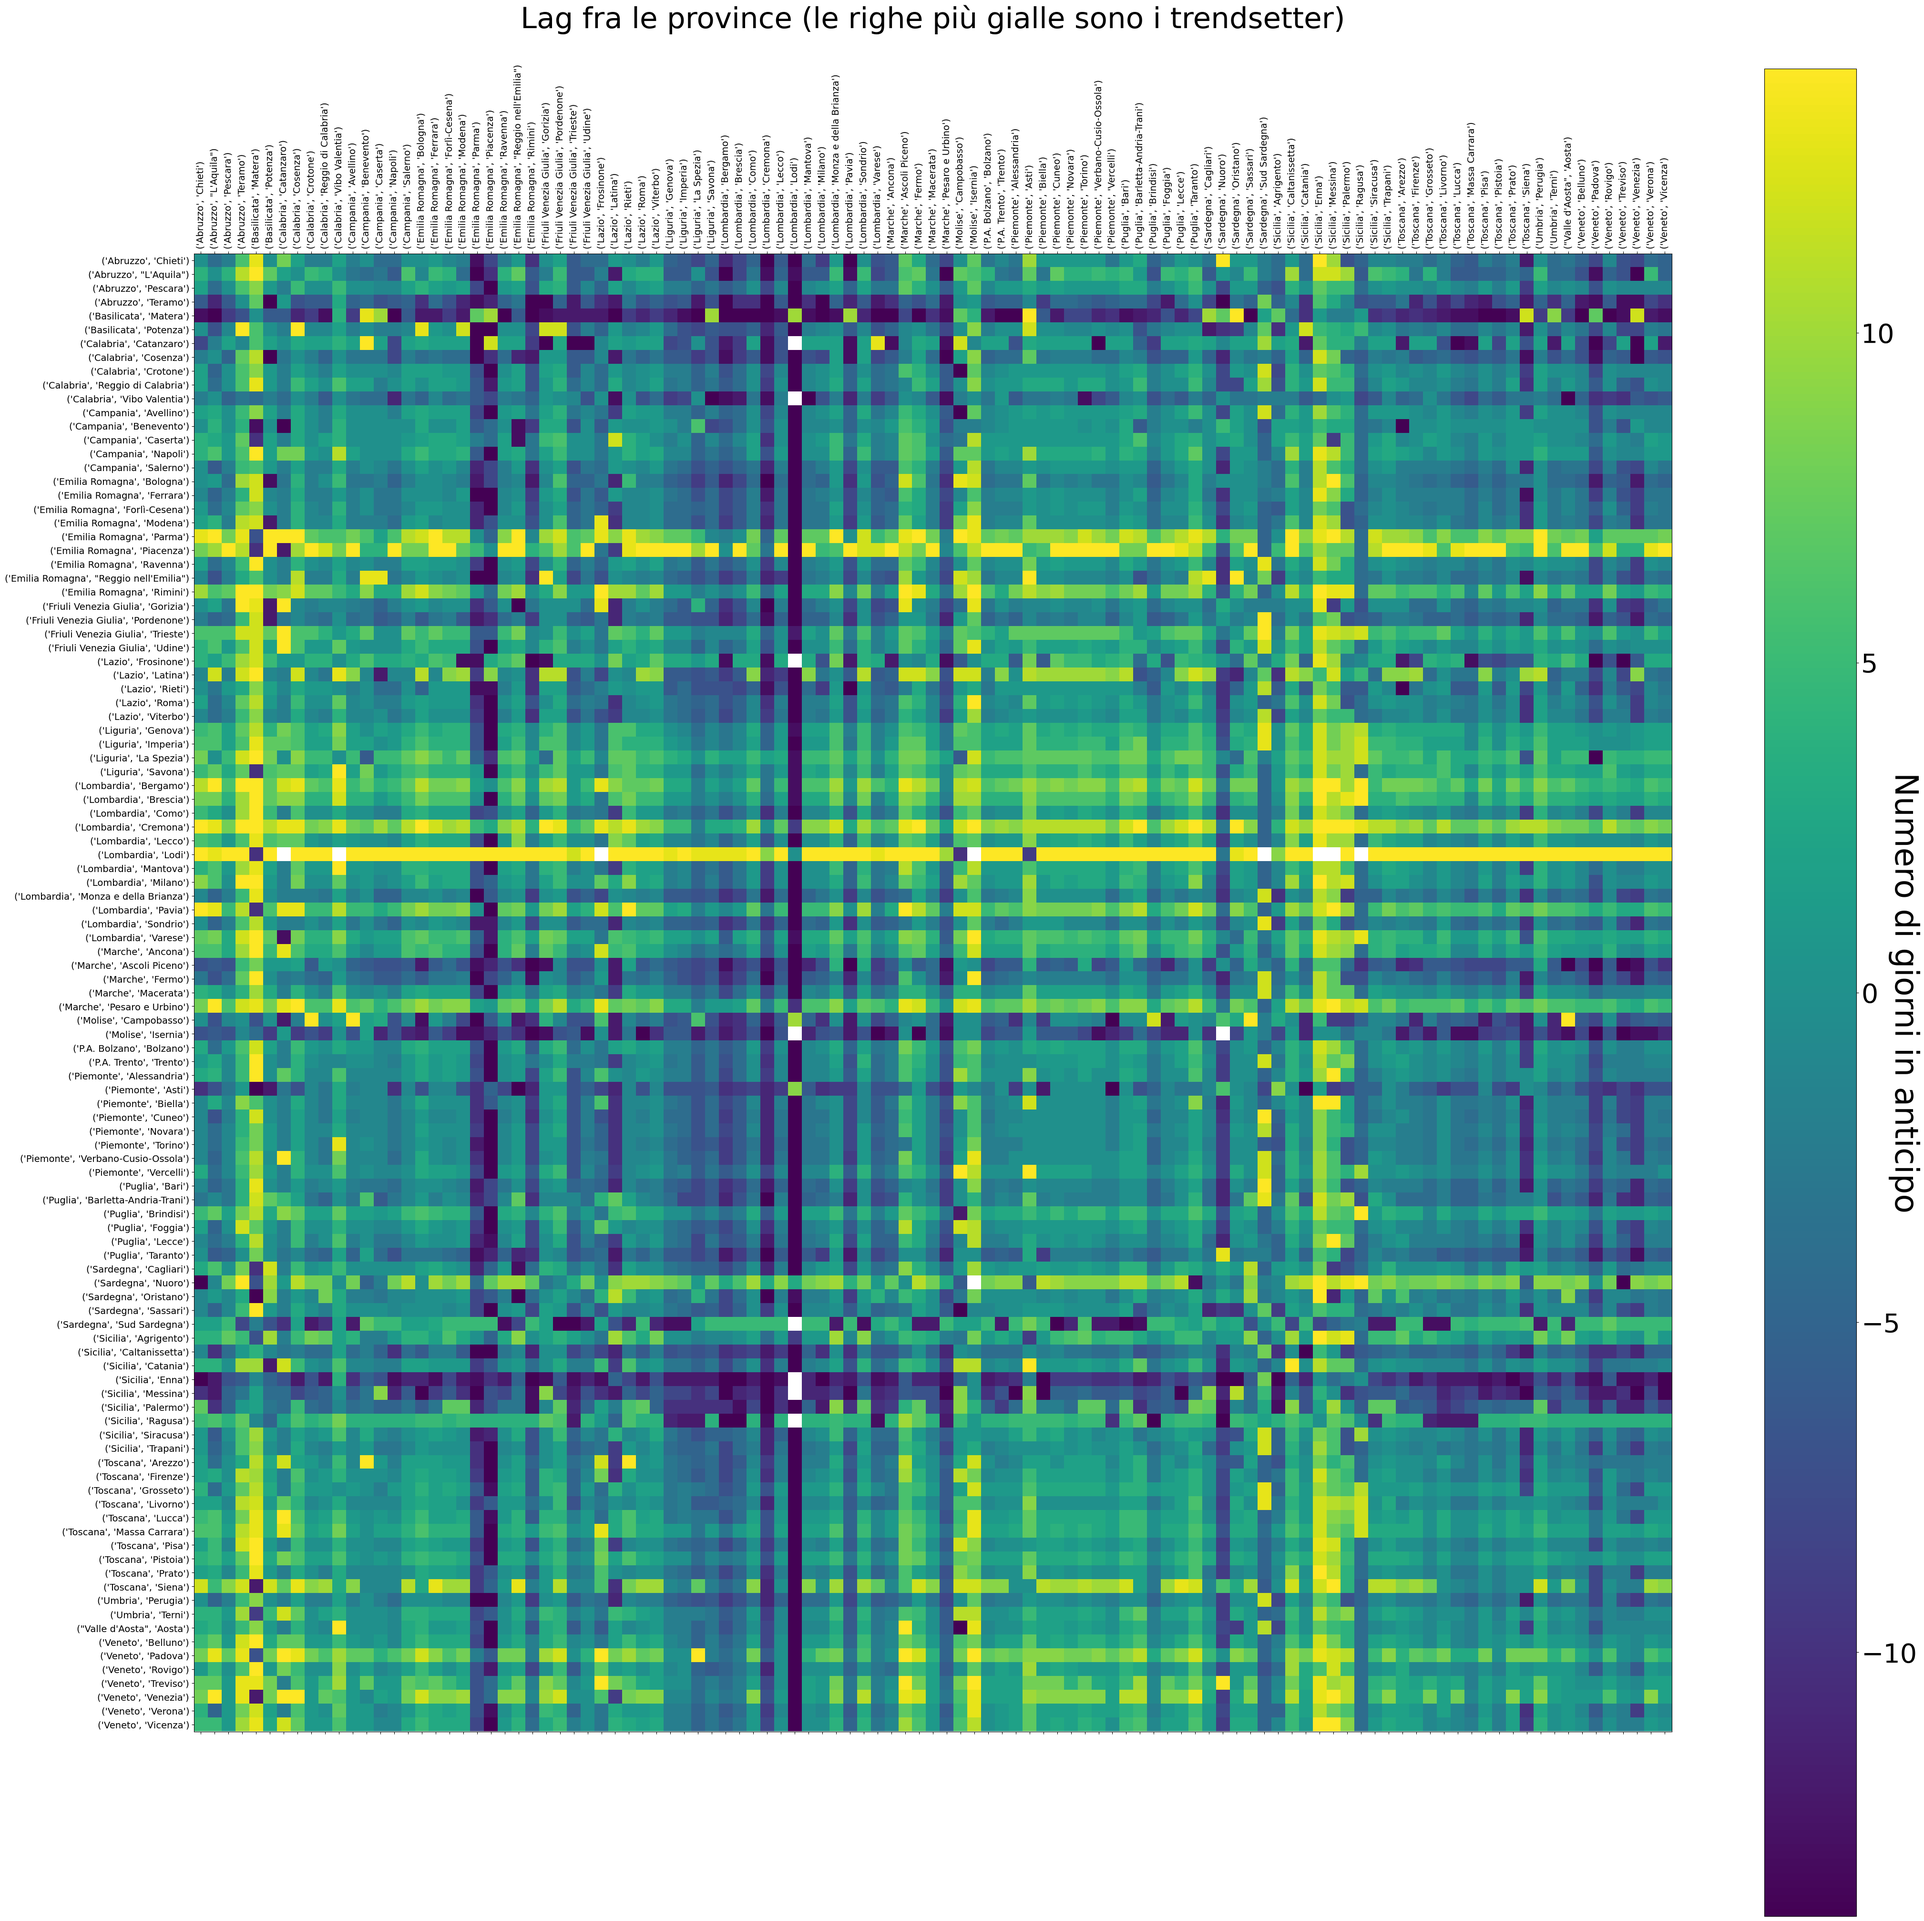
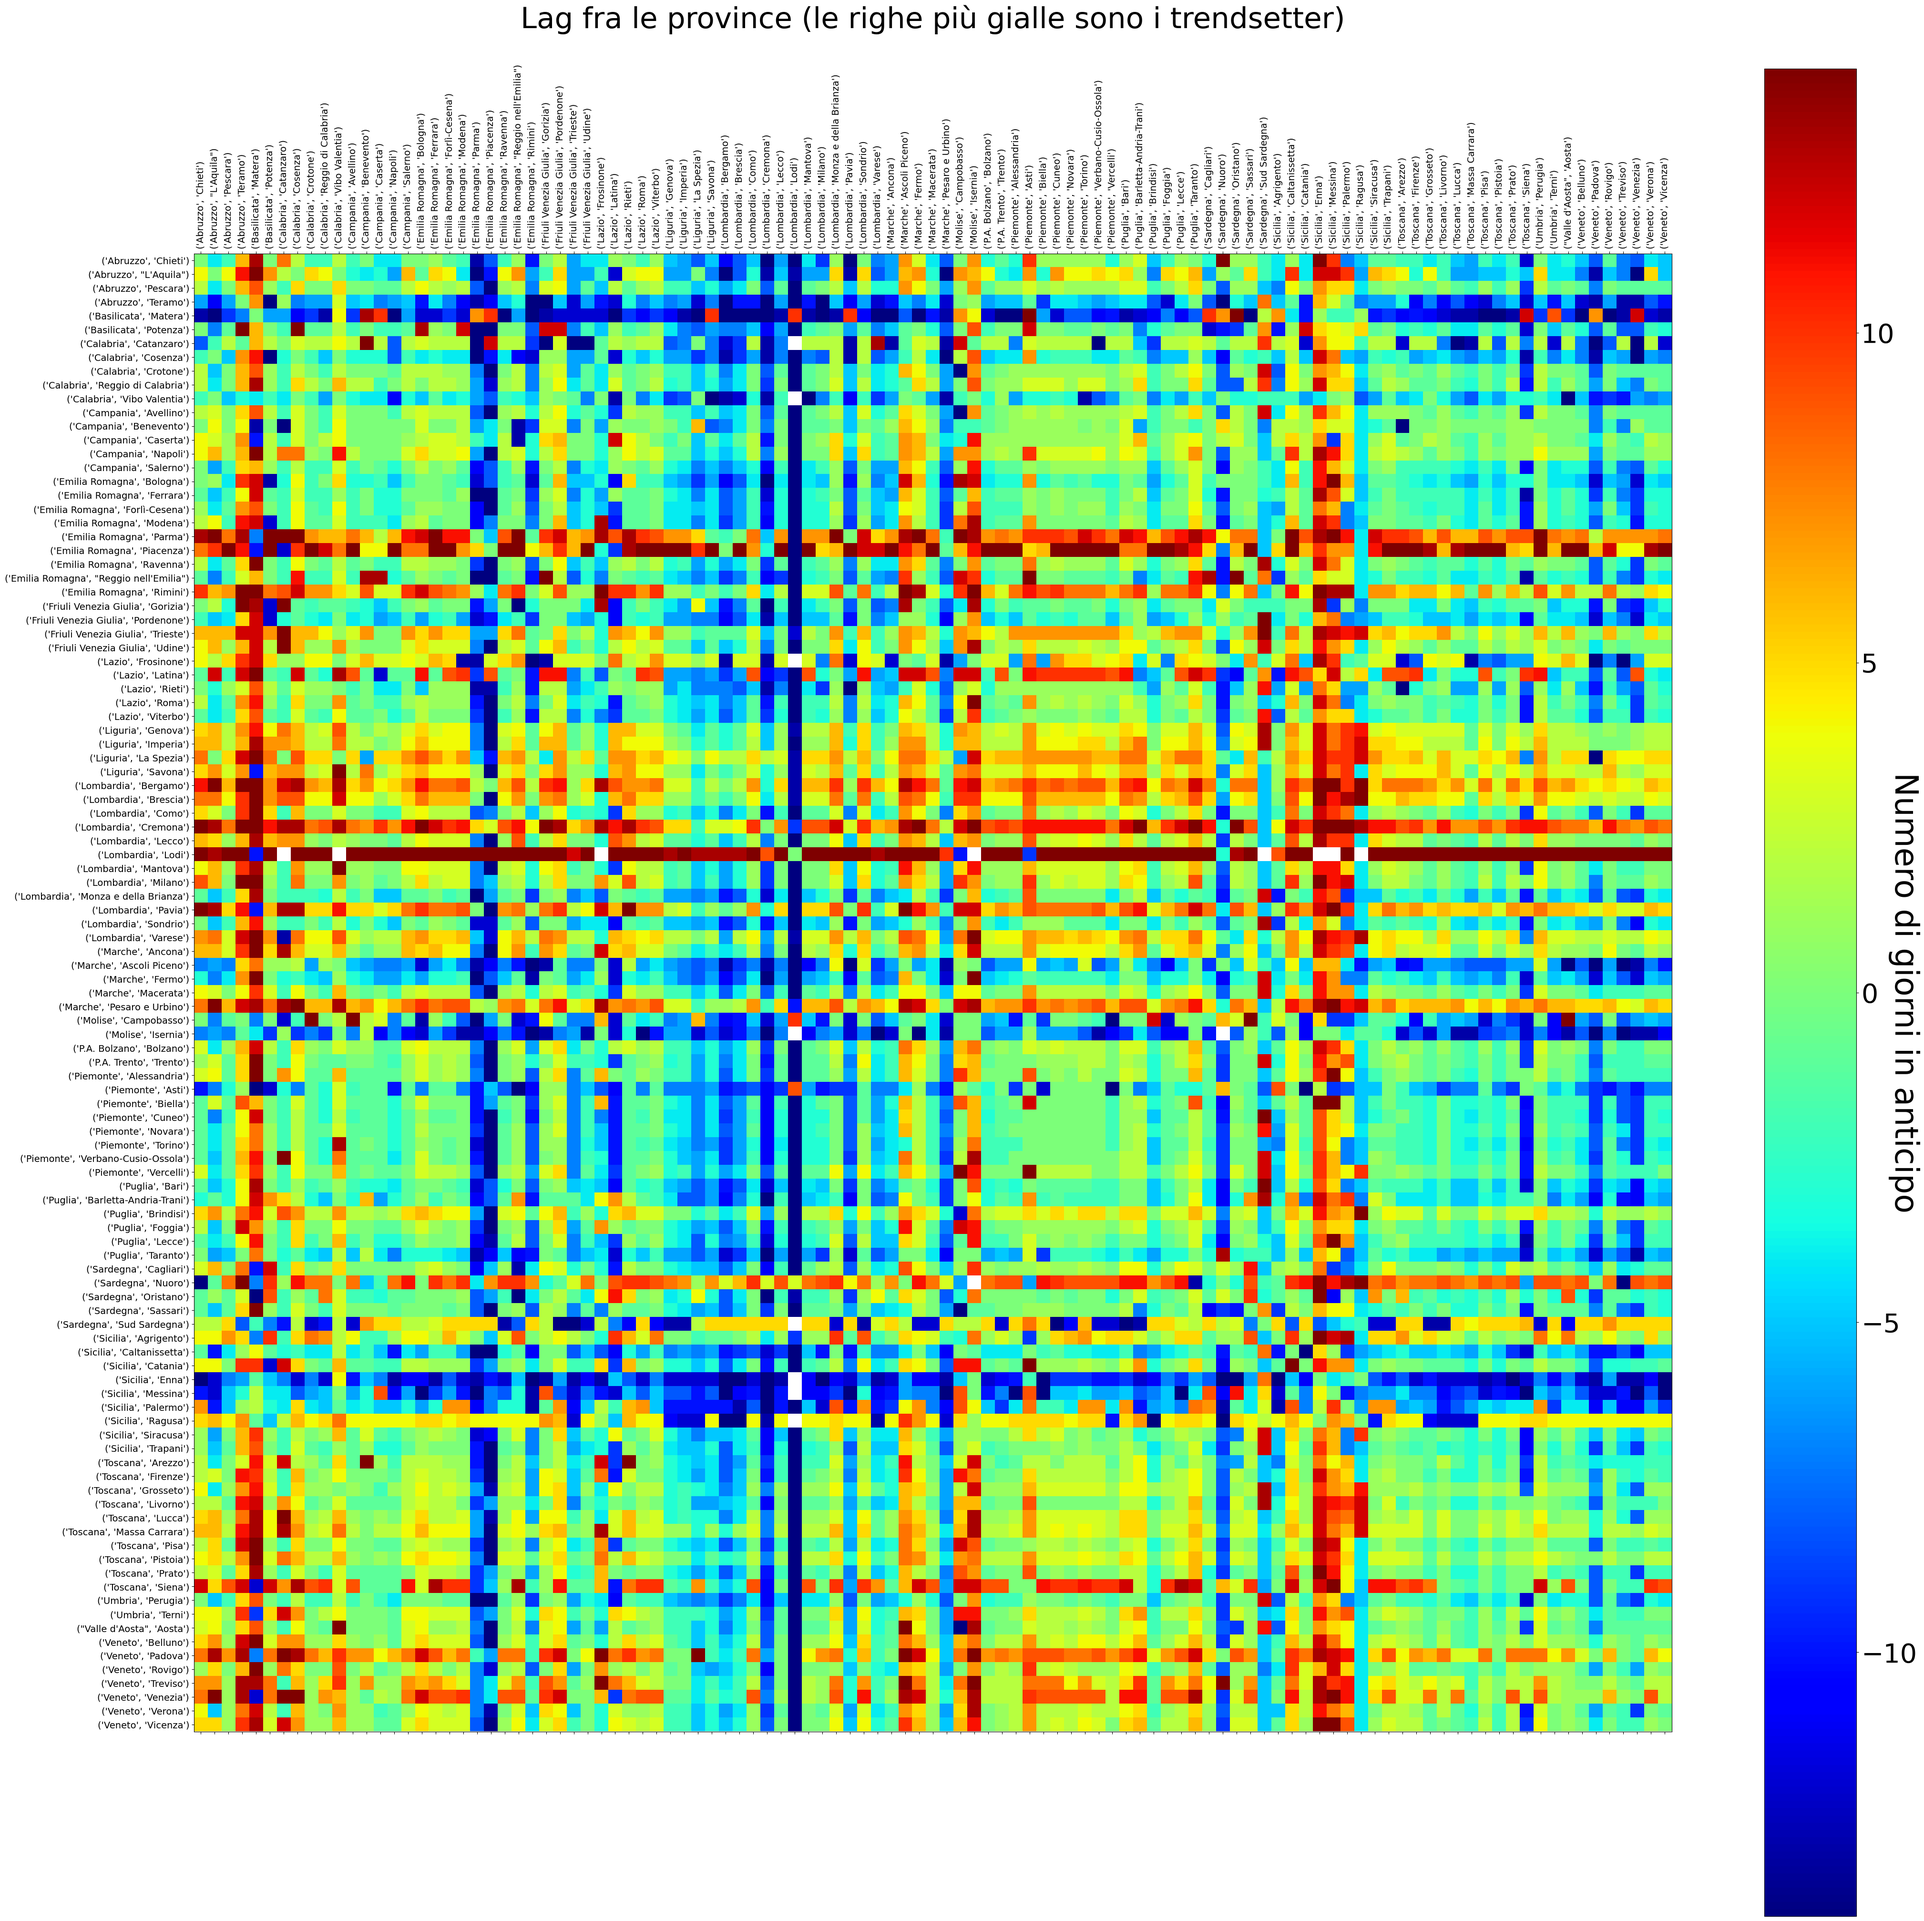
changed colors

diff --git a/covid19it/pipelines/provincia.py b/covid19it/pipelines/provincia.py
@@ -40,11 +40,11 @@ def desc_provincia(path_output=dict_config["PATH_OUT"]):
     df = obj_data.data.groupby(['data','denominazione_regione', 'denominazione_provincia'])['totale_casi_confermati_provincia'].mean().unstack(fill_value=0, level=0).transpose()
     M_lag = get_corr_lag_matrix(M=array(df), min_corr=0.90, max_lag=14, n_jobs=4)
     f = plt.figure(figsize=(50, 50))
-    plt.matshow(float64(M_lag), fignum=f.number)
+    plt.matshow(float64(M_lag), fignum=f.number, cmap='jet')
     plt.xticks(range(df.shape[1]), df.columns, fontsize=14, rotation=90)
     plt.yticks(range(df.shape[1]), df.columns, fontsize=14)
     cb = plt.colorbar()
     cb.ax.tick_params(labelsize=40)
     cb.set_label('Numero di giorni in anticipo', rotation=270, size=48)
-    plt.title('Lag fra le province (le righe più gialle sono i trendsetter)', fontsize=44, y=1.15)
+    plt.title('Lag fra le province (le righe più rosse sono i trendsetter)', fontsize=44, y=1.15)
     f.savefig(path_output + "/plot_lag_province.png", bbox_inches = "tight")
